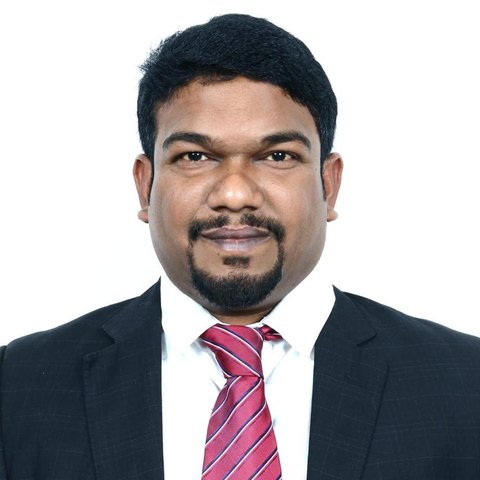
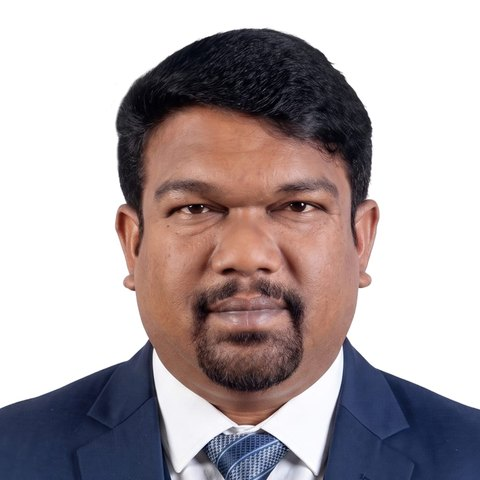
Cards: new photo for Arun Nelli

diff --git a/cards-data.js b/cards-data.js
@@ -65,7 +65,7 @@
       // TODO: the details sent read "Arun Nelli C" — confirm whether the "C" belongs on the card.
       name: { prefix: "", given: "Arun", family: "Nelli" },
       designation: "Managing Partner",
-      photo: "/card/arun.jpg",
+      photo: "/card/arun.jpg?v=2",
       photoSmall: "/card/arun-256.jpg",
       phone: "+966535847425",
       whatsapp: null,

diff --git a/afzal.html b/afzal.html
@@ -28,7 +28,7 @@
   </noscript>
 </main>
 <script src="/vendor/qrcode.min.js?v=1"></script>
-<script src="/cards-data.js?v=2"></script>
+<script src="/cards-data.js?v=3"></script>
 <script src="/cards-core.js?v=2"></script>
 <script src="/card.js?v=5"></script>
 </body>

diff --git a/arun.html b/arun.html
@@ -28,7 +28,7 @@
   </noscript>
 </main>
 <script src="/vendor/qrcode.min.js?v=1"></script>
-<script src="/cards-data.js?v=2"></script>
+<script src="/cards-data.js?v=3"></script>
 <script src="/cards-core.js?v=2"></script>
 <script src="/card.js?v=5"></script>
 </body>

diff --git a/nisar.html b/nisar.html
@@ -28,7 +28,7 @@
   </noscript>
 </main>
 <script src="/vendor/qrcode.min.js?v=1"></script>
-<script src="/cards-data.js?v=2"></script>
+<script src="/cards-data.js?v=3"></script>
 <script src="/cards-core.js?v=2"></script>
 <script src="/card.js?v=5"></script>
 </body>

diff --git a/qr-admin.html b/qr-admin.html
@@ -78,7 +78,7 @@
 </div>
 
 <script src="/vendor/qrcode.min.js?v=1"></script>
-<script src="/cards-data.js?v=2"></script>
+<script src="/cards-data.js?v=3"></script>
 <script src="/cards-core.js?v=2"></script>
 <script src="/qr-admin.js?v=1"></script>
 </body>
